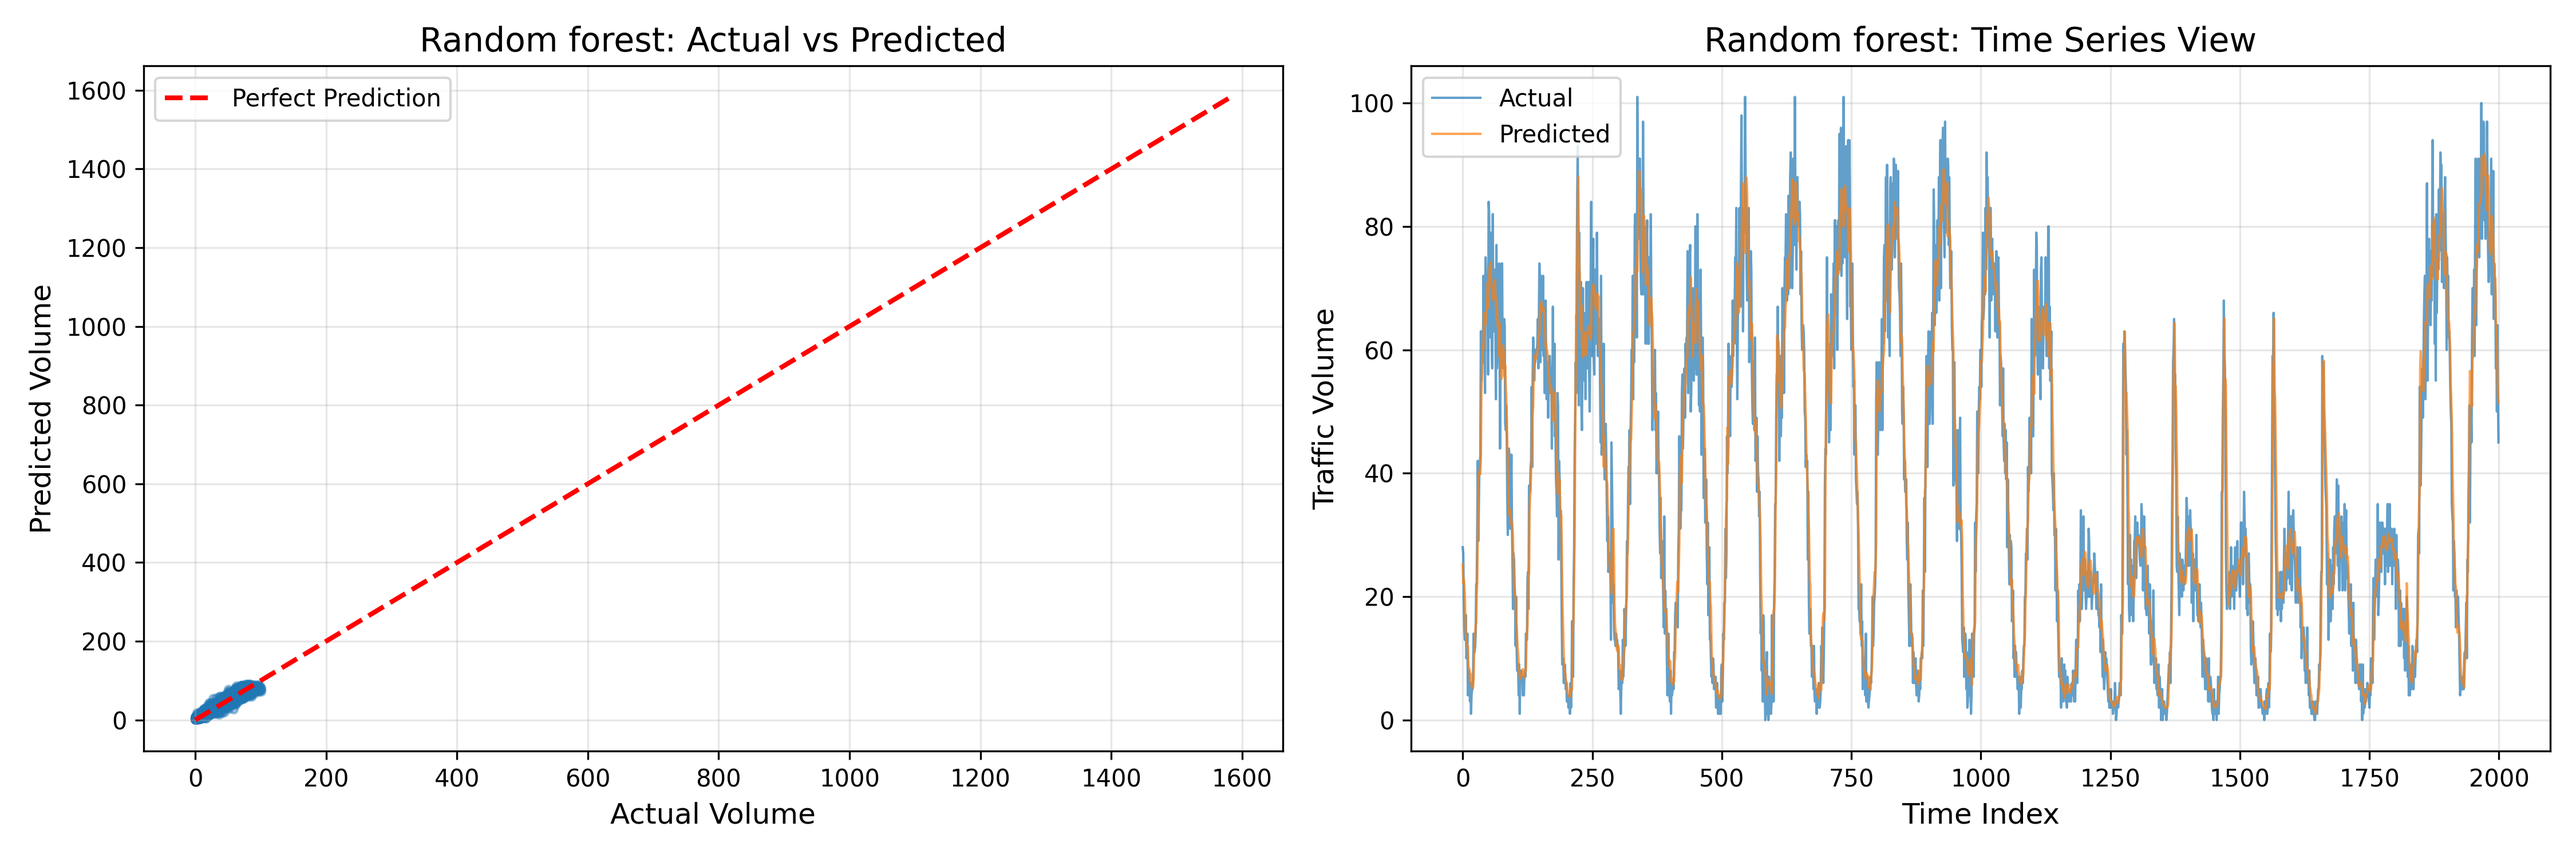
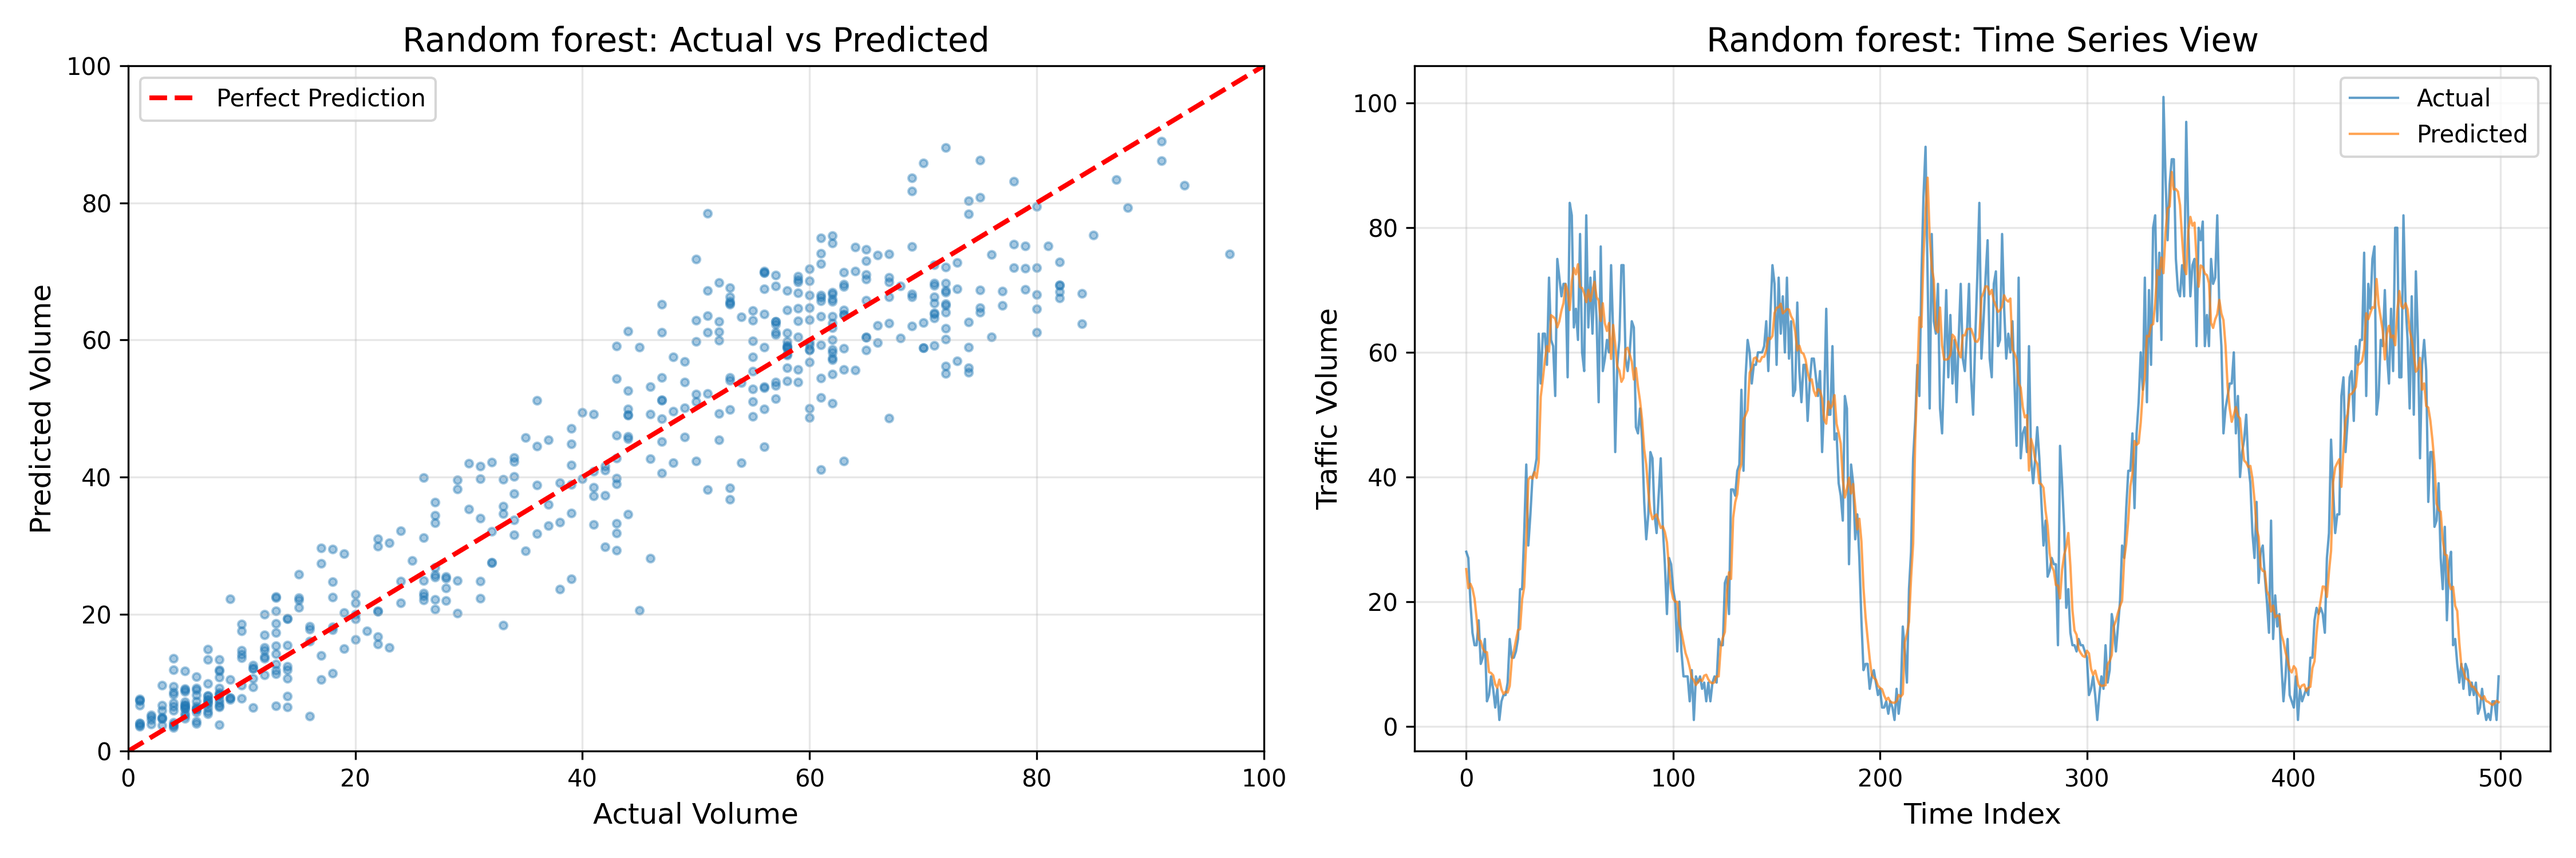
Fixed plot visualization

diff --git a/main.py b/main.py
@@ -174,9 +174,11 @@ def predictions(model, X_test):
 Given the actual vs predicted outcomes this function will also take in the model name and the number of samples we wish 
 to plot and produce visuals comparing the results. 
 """
-def predictions_visuals(y_test, y_pred, model_name = "Model", n_samples = 2000):
+def predictions_visuals(y_test, y_pred, model_name = "Model", n_samples = 500):
 
     fig, axes = plt.subplots(1, 2, figsize = (15, 5))
+    axes[0].set_xlim(0, 100)
+    axes[0].set_ylim(0, 100)
 
     """
     A scatter plot to compare the actual vs predicted outcomes
@@ -360,9 +362,9 @@ def main():
 
     # Visualize and compare results from each model. n_samples can be set to adjust how many points are plotted
     print("\nGenerating visualizations...")
-    rf_visual = predictions_visuals(y_test, rf_pred, "Random forest", n_samples = 2000)
-    gb_visual = predictions_visuals(y_test, gb_pred, "Gradient Boosting", n_samples=2000)
-    ridge_visual = predictions_visuals(y_test, ridge_pred, "Ridge regression", n_samples=2000)
+    predictions_visuals(y_test, rf_pred, "Random forest", 500)
+    predictions_visuals(y_test, gb_pred, "Gradient Boosting", 500)
+    predictions_visuals(y_test, ridge_pred, "Ridge regression", 500)
 
     # Visualized model comparison
     plot_model_comparison(evaluations)
